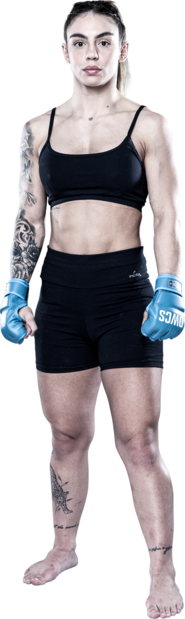
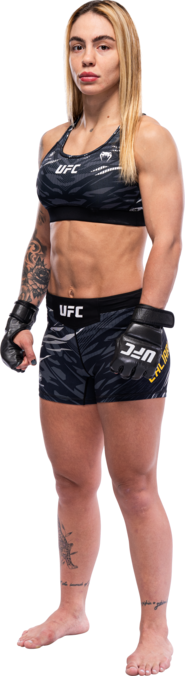
UFC Fight Night: Allen vs. Costa
UFC Fight Night: Allen vs. Costa
Database Update

diff --git a/pages/octagoniq.html b/pages/octagoniq.html
@@ -963,35 +963,20 @@
 
     <div id="myModal" class="modal">
         <div class="modal-content">
-            <p>Select a Bout (UFC 325: Volkanovski vs. Lopes 2):</p>
-            <button id="fight1">Alexander Volkanovski vs. Diego Lopes</button>
-            <button id="fight2">Dan Hooker vs. Benoit Saint Denis</button>
-            <button id="fight3">Rafael Fiziev vs. Mauricio Ruffy</button>
-            <button id="fight4">Tai Tuivasa vs. Tallison Teixeira</button>
-            <button id="fight5">Quillan Salkilld vs. Jamie Mullarkey</button>
-            <button id="fight6">Junior Tafa vs. Billy Elekana</button>
-            <button id="fight7">Cam Rowston vs. Cody Brundage</button>
-            <button id="fight8">Jacob Malkoun vs. Torrez Finney</button>
-            <button id="fight9">Jonathan Micallef vs. Oban Elliott</button>
-            <button id="fight10">Kaan Ofli vs. Yizha</button>
-            <button id="fight11">Sangwook Kim vs. Dom Mar Fan</button>
-            <button id="fight12">Keiichiro Nakamura vs. Sebastian Szalay</button>
-            <button id="fight13">Sulangrangbo vs. Lawrence Lui</button>
-            <button id="fight14">Aaron Tau vs. Namsrai Batbayar</button>
-            <p>Select a Bout (UFC 324: Gaethje vs. Pimblett):</p>
-            <button id="fight15">Justin Gaethje vs. Paddy Pimblett</button>
-            <button id="fight16">Kayla Harrison vs. Amanda Nunes</button>
-            <button id="fight17">Sean O'Malley vs. Song Yadong</button>
-            <button id="fight18">Waldo Cortes Acosta vs. Derrick Lewis</button>
-            <button id="fight19">Arnold Allen vs. Jean Silva</button>
-            <button id="fight20">Natalia Silva vs. Rose Namajunas</button>
-            <button id="fight21">Umar Nurmagomedov vs. Deiveson Figueiredo</button>
-            <button id="fight22">Ateba Gautier vs. Andrey Pulyaev</button>
-            <button id="fight23">Michael Johnson vs. Alexander Hernandez</button>
-            <button id="fight24">Nikita Krylov vs. Modestas Bukauskas</button>
-            <button id="fight25">Alex Perez vs. Charles Johnson</button>
-            <button id="fight26">Josh Hokit vs. Denzel Freeman</button>
-            <button id="fight27">Ricky Turcios vs. Cameron Smotherman</button>
+            <p>Select a Bout (UFC Fight Night: Allen vs. Costa):</p>
+            <button id="fight1">Arnold Allen vs. Melquizael Costa</button>
+            <button id="fight2">Dooho Choi vs. Daniel Santos</button>
+            <button id="fight3">Malcolm Wellmaker vs. Juan Diaz</button>
+            <button id="fight4">Modestas Bukauskas vs. Rodolfo Bellato</button>
+            <button id="fight5">Timmy Cuamba vs. Benardo Sopaj</button>
+            <button id="fight6">Jeremiah Wells vs. Nicolas Dalby</button>
+            <button id="fight7">Tuco Tokkos vs. Ivan Erslan</button>
+            <button id="fight8">Trey Ogden vs. Tommy Gantt</button>
+            <button id="fight9">Ketlen Vieira vs. Jacqueline Cavalcanti</button>
+            <button id="fight10">Cody Brundage vs. Andre Petroski</button>
+            <button id="fight11">Alice Ardelean vs. Polyana Viana</button>
+            <button id="fight12">Daniel Barez vs. Luis Gurule</button>
+            <button id="fight13">Shauna Bannon vs. Nicolle Caliari</button>
             <span class="close">&times;</span>
         </div>
     </div>